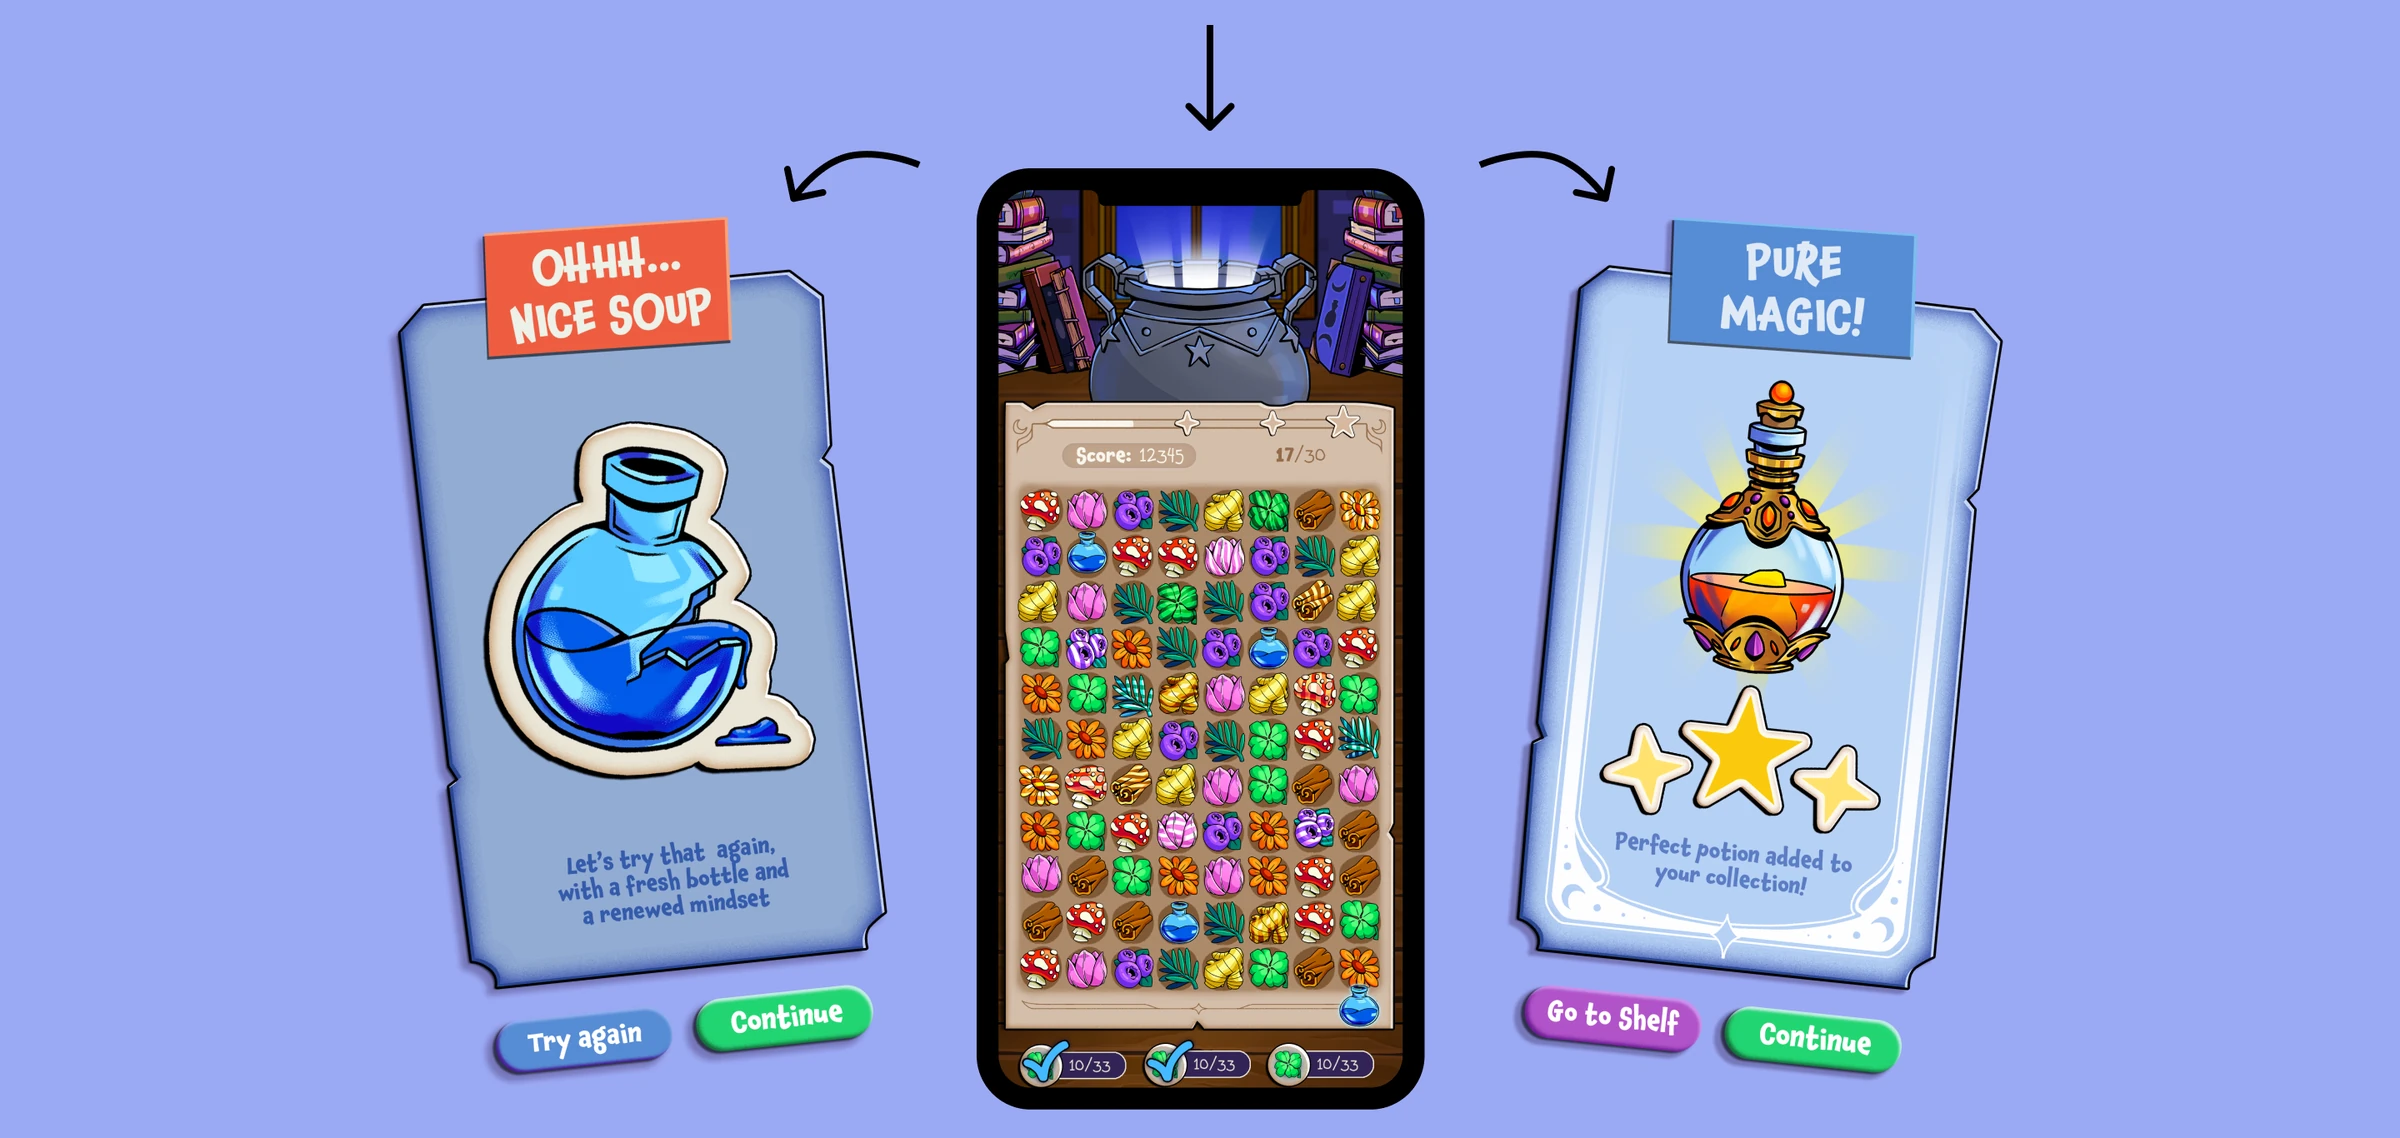
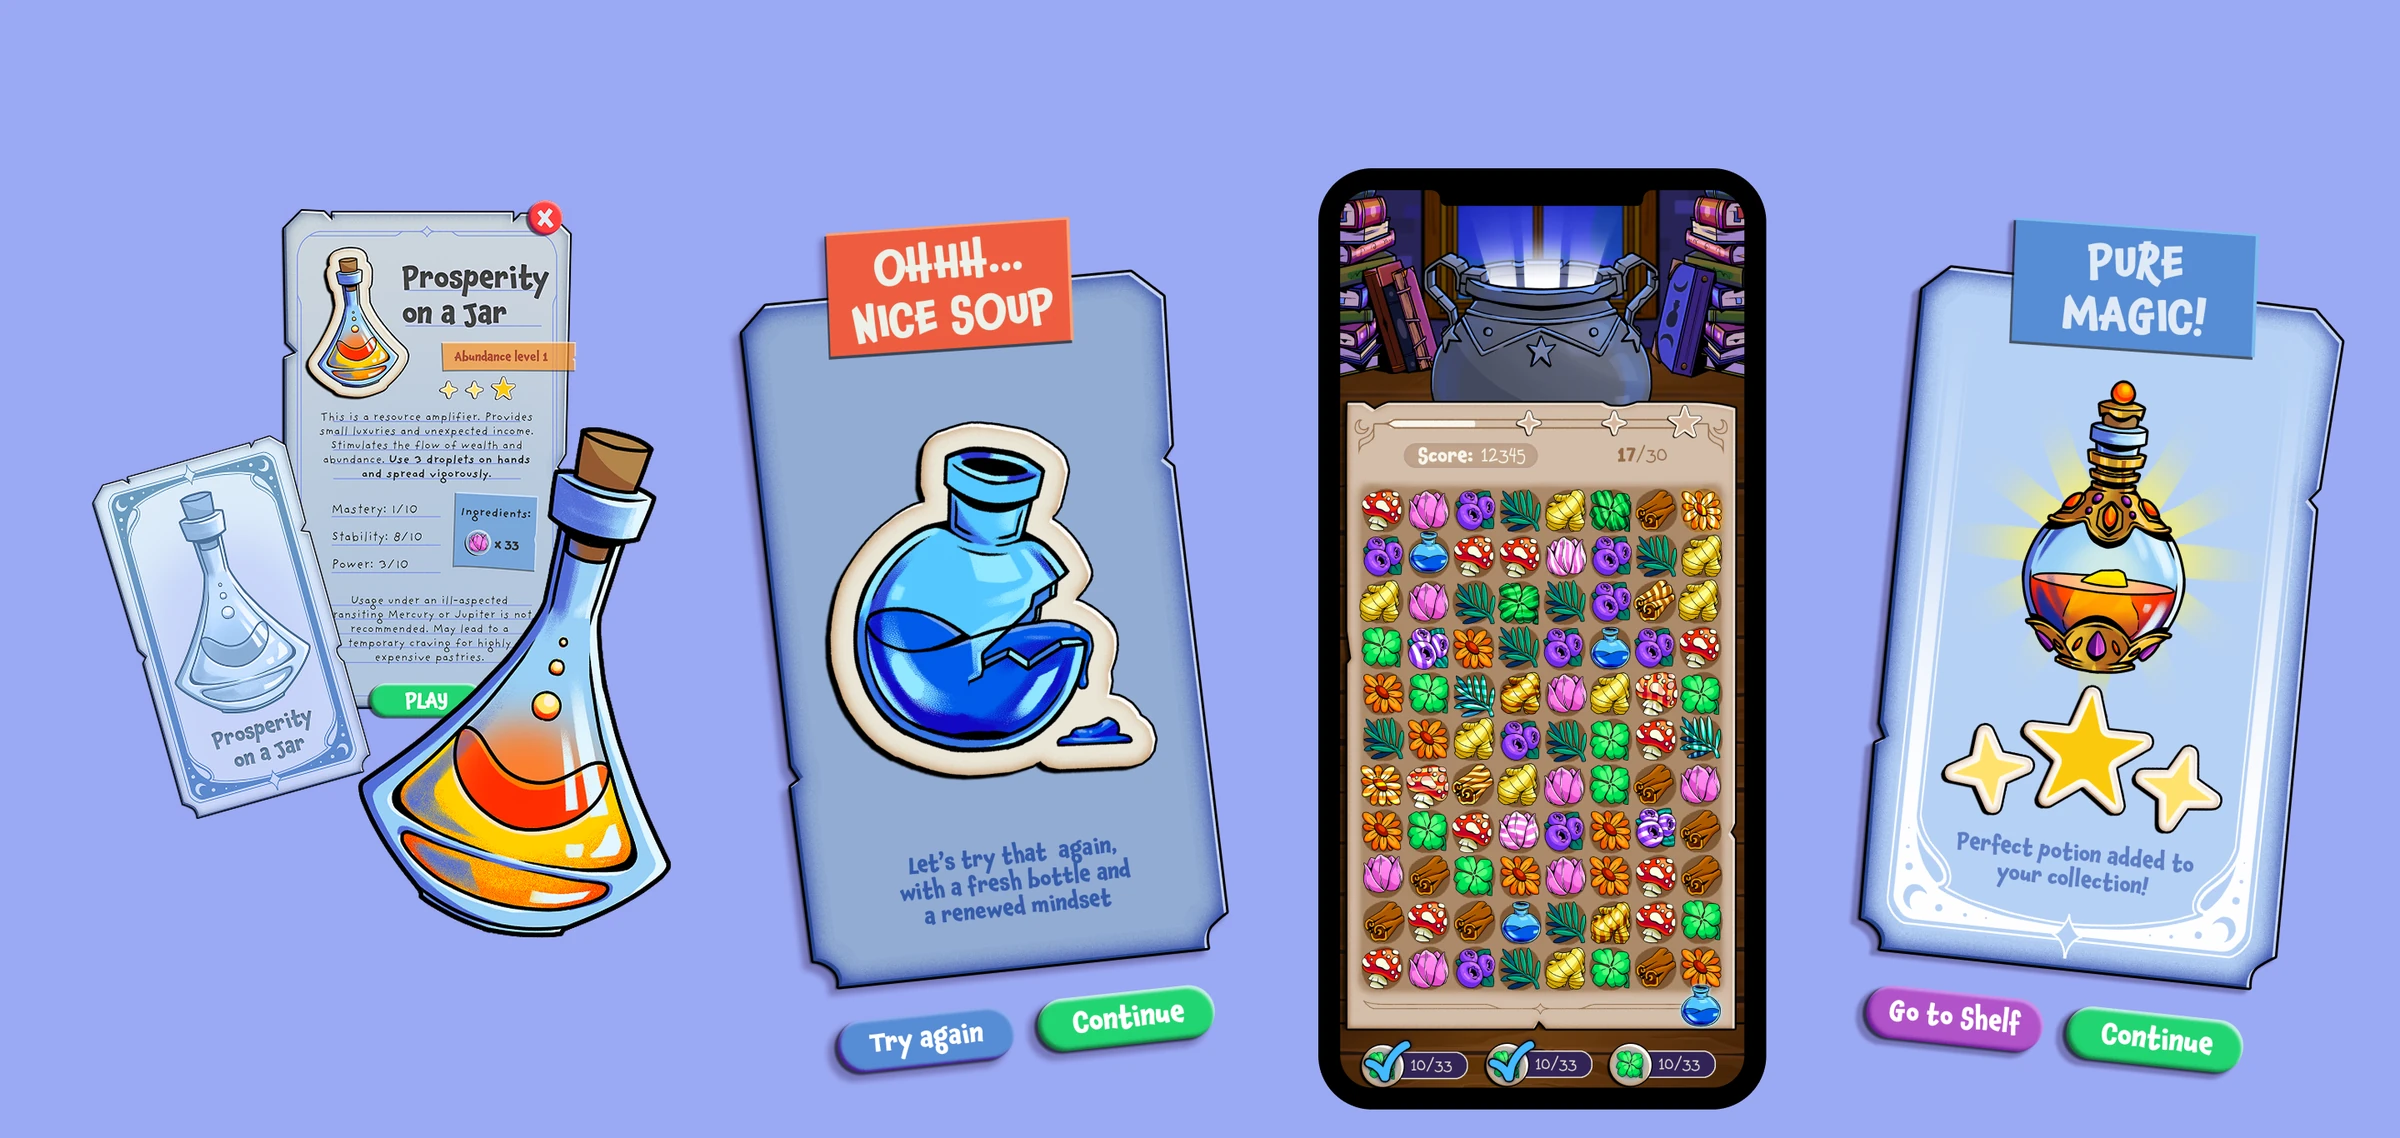
Matching Potions: shelves only in Potions, arrows removed from Game Screens and Win/Lose, potion illustration in Win/Lose, new order (toolkit, video, wireframe)

diff --git a/js/project-blocks.js b/js/project-blocks.js
@@ -56,8 +56,16 @@
           type: "split", tone: "night", textRight: true,
           title: "Potions, Shelfs and Cards",
           text: "Everytime you unlock a potion it automatically goes to your shelf, where you’ll display your whole collection. Each potion has an identification card, where you can discover its alchemy secrets, tips, way of use and cautions.",
-          image: mp("shelfs", 1814, 872, "Potion shelves and a potion identification card"),
+          image: mp("shelves", 1144, 869, "Potion shelves"),
         },
+        { type: "full", tone: "cream", image: mp("typography", 2400, 780, "Chaloops font for the titles, Providence Sans for body text, and the game’s colour palette: Mystic Amethyst #5D4AD9, Deep Midnight #272559, Lapis Powder #0A3EA6, #5CB6F9, #592202 and #CE5936") },
+        { type: "full", tone: "cream", flat: true, image: mp("game-screens", 2400, 1063, "Game screens: intro journal, potions selection, Elixir of Clarity recipe, the potion shelf and the Dew of Eternity identification card") },
+        { type: "full", tone: "cream", image: mp("win-lose", 2400, 1138, "Win, lose and gameplay screens next to the potion illustration: Ohhh… nice soup, the Match-3 board and Pure magic!") },
+        {
+          type: "feature", tone: "night",
+          image: mp("ui-toolkit", 1750, 1020, "UI toolkit: buttons, bars, stars and potion bottles"),
+        },
+        { type: "video", tone: "night", title: "Matching Potions gameplay video", src: "https://player.vimeo.com/video/1177791247?h=c8d50ffe95&dnt=1" },
         {
           type: "split", tone: "parchment", side: "left",
           title: "Sketched Wireframe & user flow",
@@ -65,14 +73,6 @@
           steps: ["Username input", "Potions selection", "Game", "Shelf", "Lose / Win"],
           image: mp("wireframe", 1600, 1045, "Hand-sketched wireframe of the game screens"),
         },
-        { type: "full", tone: "cream", image: mp("typography", 2400, 780, "Chaloops font for the titles, Providence Sans for body text, and the game’s colour palette: Mystic Amethyst #5D4AD9, Deep Midnight #272559, Lapis Powder #0A3EA6, #5CB6F9, #592202 and #CE5936") },
-        { type: "full", tone: "cream", flat: true, image: mp("game-screens", 2400, 1063, "Game screens: intro journal, potions selection, Elixir of Clarity recipe, the potion shelf and the Dew of Eternity identification card") },
-        { type: "full", tone: "cream", image: mp("win-lose", 2400, 1138, "Match-3 gameplay screen, with the lose screen (Ohhh… nice soup) and the win screen (Pure magic!)") },
-        {
-          type: "feature", tone: "night",
-          image: mp("ui-toolkit", 1750, 1020, "UI toolkit: buttons, bars, stars and potion bottles"),
-        },
-        { type: "video", tone: "night", title: "Matching Potions gameplay video", src: "https://player.vimeo.com/video/1177791247?h=c8d50ffe95&dnt=1" },
         { type: "full", tone: "night", image: mp("key-art", 1920, 1080, "Matching Potions key art") },
       ],
     },

diff --git a/project.html b/project.html
@@ -12,7 +12,7 @@
   <!-- Tumb, licensed through Maria's Adobe Fonts (Creative Cloud) web project -->
   <link rel="preconnect" href="https://use.typekit.net" crossorigin />
   <link rel="stylesheet" href="https://use.typekit.net/sxu4bkt.css" />
-  <link rel="stylesheet" href="css/styles.css?v=202611121615" />
+  <link rel="stylesheet" href="css/styles.css?v=202611121620" />
 </head>
 <body>
   <svg width="0" height="0" style="position:absolute" aria-hidden="true">
@@ -35,8 +35,8 @@
     <a href="#top" onclick="scrollTo({top:0,behavior:'smooth'});return false;">Back to top ↑</a>
   </footer>
 
-  <script defer src="js/projects.js?v=202611121615"></script>
-  <script defer src="js/project-blocks.js?v=202611121615"></script>
-  <script defer src="js/project.js?v=202611121615"></script>
+  <script defer src="js/projects.js?v=202611121620"></script>
+  <script defer src="js/project-blocks.js?v=202611121620"></script>
+  <script defer src="js/project.js?v=202611121620"></script>
 </body>
 </html>

diff --git a/index.html b/index.html
@@ -13,7 +13,7 @@
   <!-- Tumb, licensed through Maria's Adobe Fonts (Creative Cloud) web project -->
   <link rel="preconnect" href="https://use.typekit.net" crossorigin />
   <link rel="stylesheet" href="https://use.typekit.net/sxu4bkt.css" />
-  <link rel="stylesheet" href="css/styles.css?v=202611121615" />
+  <link rel="stylesheet" href="css/styles.css?v=202611121620" />
 </head>
 <body>
 
@@ -217,7 +217,7 @@
     <a href="#top">Back to top ↑</a>
   </footer>
 
-  <script defer src="js/projects.js?v=202611121615"></script>
-  <script defer src="js/main.js?v=202611121615"></script>
+  <script defer src="js/projects.js?v=202611121620"></script>
+  <script defer src="js/main.js?v=202611121620"></script>
 </body>
 </html>
